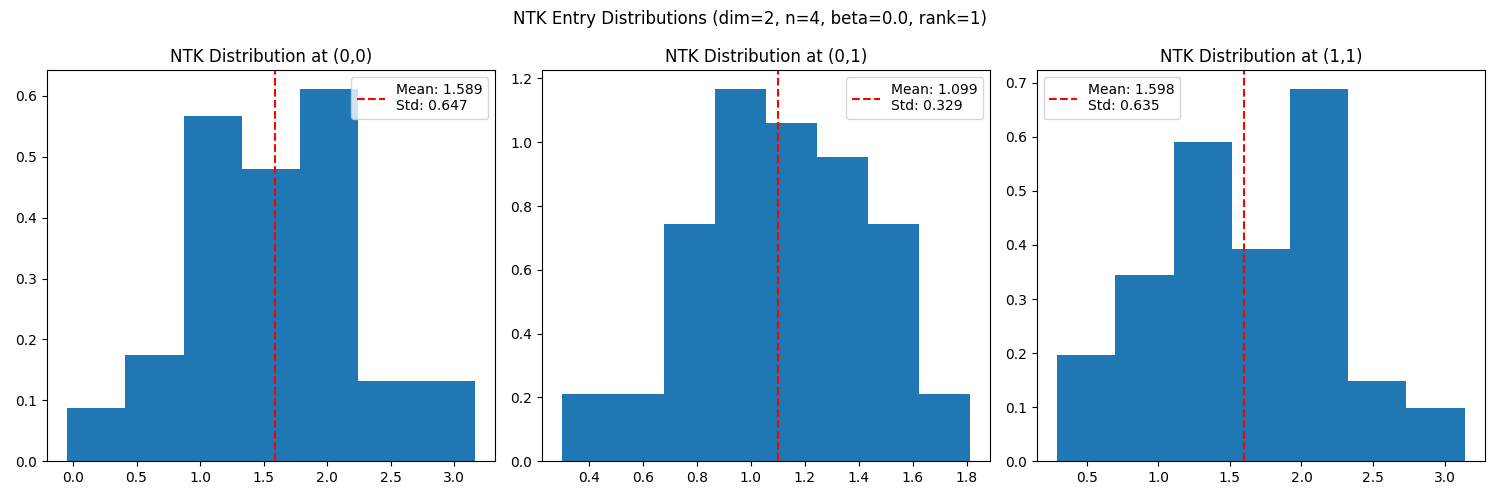
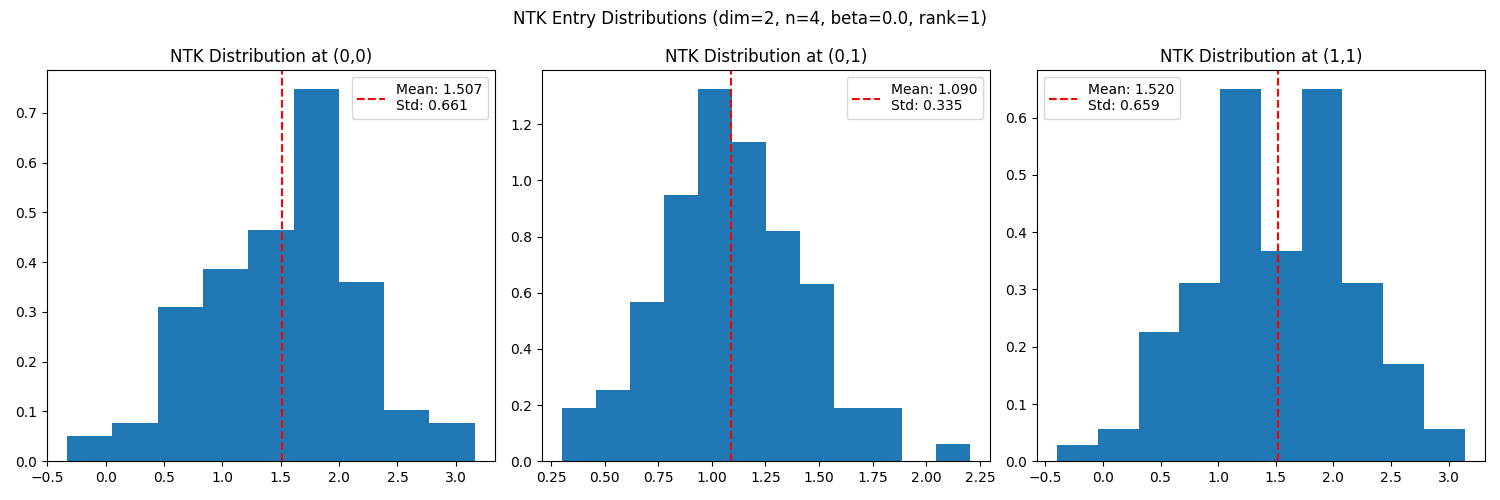
same big run incoming

diff --git a/experiments/ntk_infinite_sin_mmnn_2layer_MC_random_bigrun.py b/experiments/ntk_infinite_sin_mmnn_2layer_MC_random_bigrun.py
@@ -83,7 +83,7 @@ for input_dim in input_dims:
                 return l2_loss, a, b
 
             # we compute and plot NTK matrices for each configuration
-            n_samples_ntk = 100  # we fix number of samples for NTK distribution analysis
+            n_samples_ntk = 300  # we fix number of samples for NTK distribution analysis
 
             with tqdm(total=len(ranks_to_test)*len(sigma_As)*len(sigma_cs), 
                      desc=f"Progress for dim={input_dim}, n={n_samples}, beta={beta}") as pbar:
